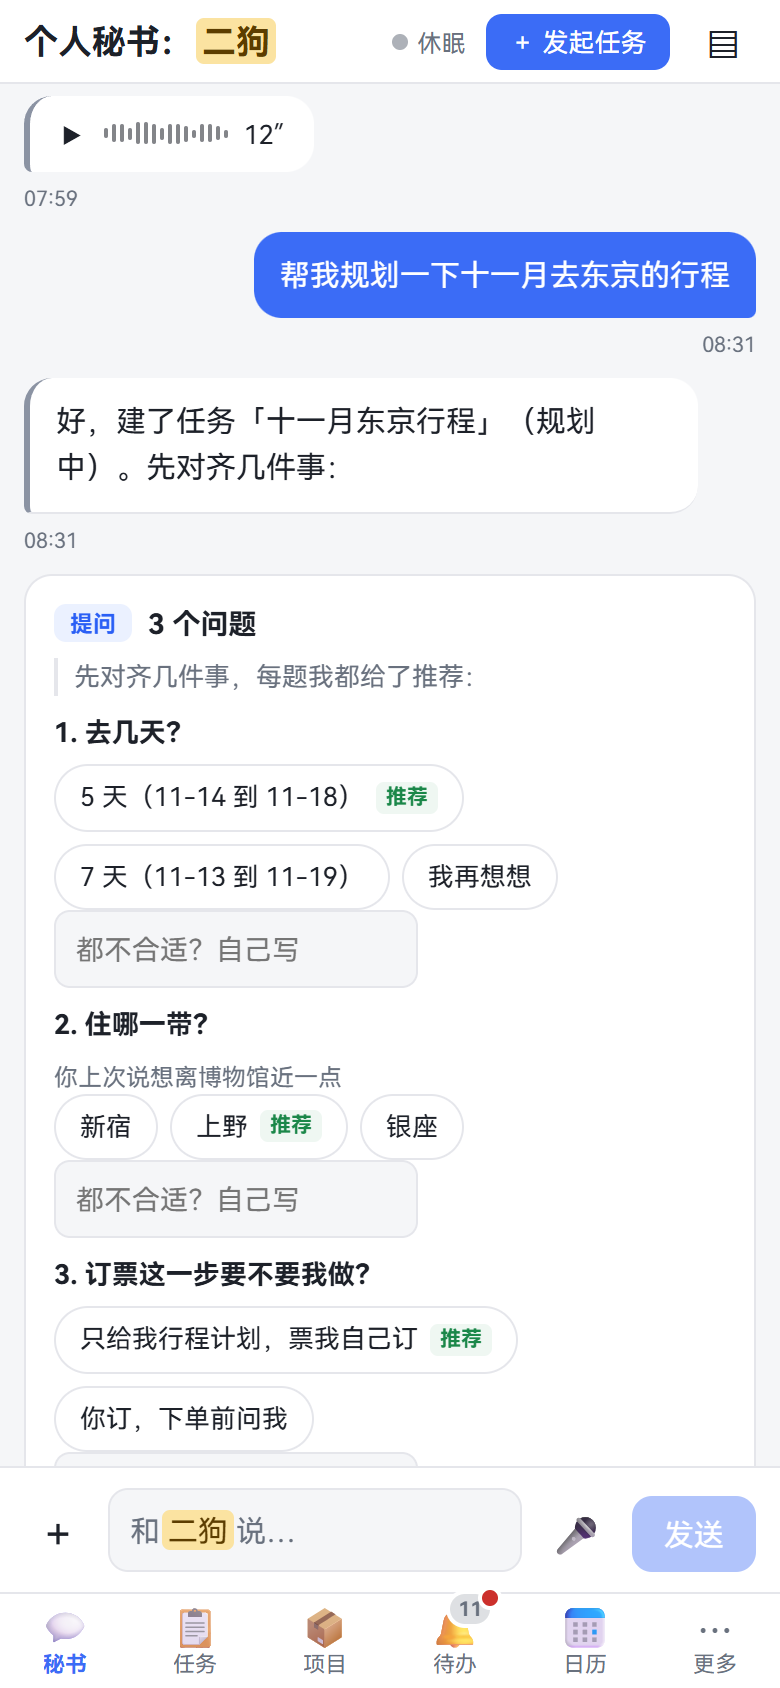
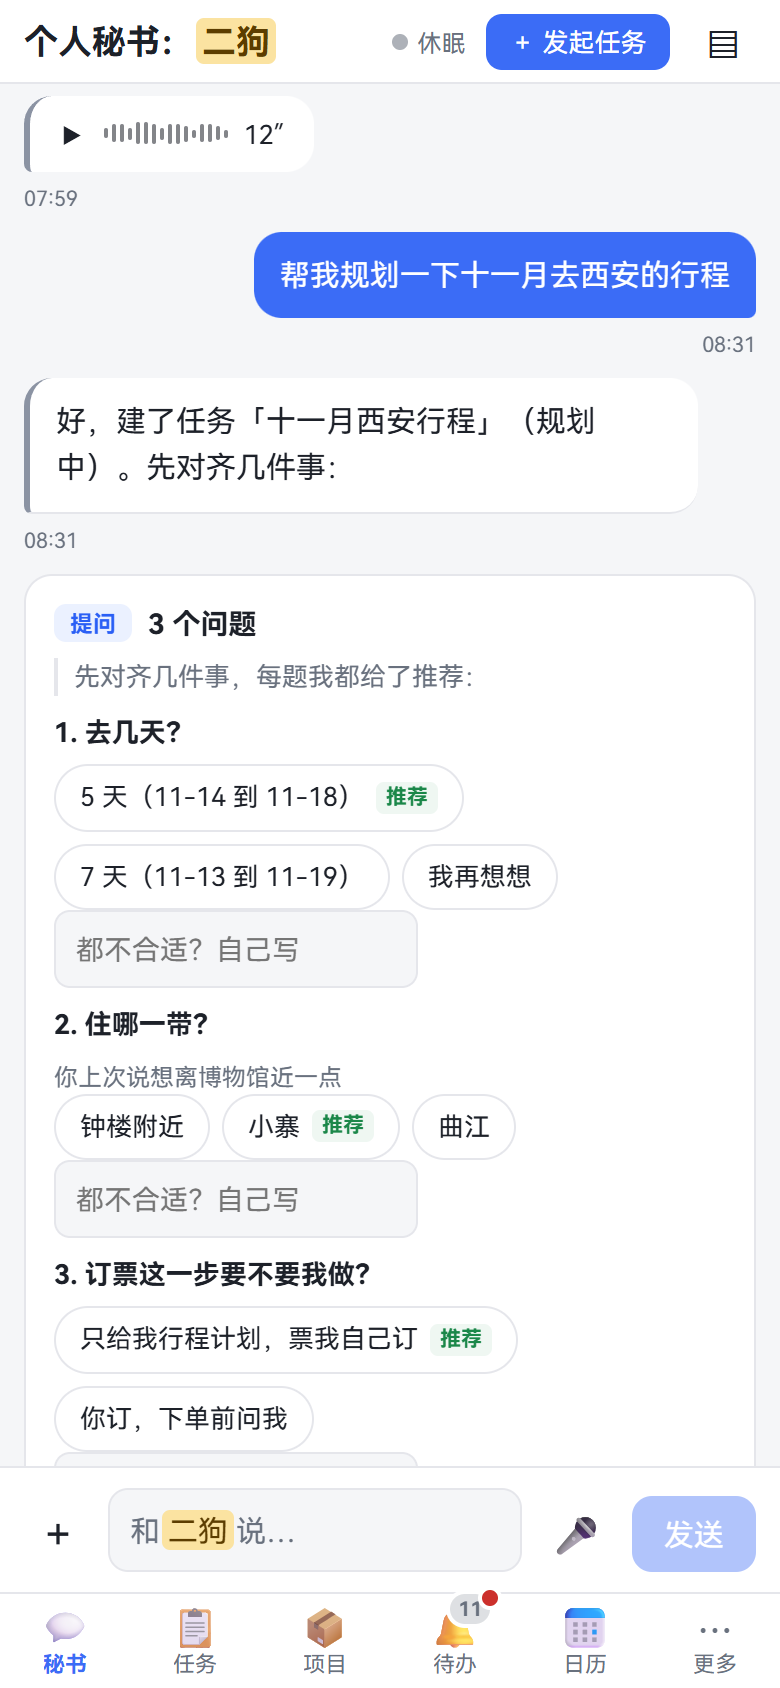
docs: 原型示例数据去掉日本相关的内容（东京行程改成西安、住哪一带改成钟楼附近 / 小寨 / 曲江、查天气改查西安；归档项目日语学习改成英语学习），README 截图重截
Claude-Session: https://claude.ai/code/session_01LuccspkYbJahV5zpQMTyxW

diff --git a/packages/web/src/prototype/fake-conversations.ts b/packages/web/src/prototype/fake-conversations.ts
@@ -382,7 +382,7 @@ export const FAKE_CARDS: Card[] = [
     intro: "先对齐几件事，每题我都给了推荐：",
     questions: [
       { id: "q1", question: "去几天？", options: ["5 天（11-14 到 11-18）", "7 天（11-13 到 11-19）", "我再想想"], recommended: "5 天（11-14 到 11-18）" },
-      { id: "q2", question: "住哪一带？", options: ["新宿", "上野", "银座"], recommended: "上野", why: "你上次说想离博物馆近一点" },
+      { id: "q2", question: "住哪一带？", options: ["钟楼附近", "小寨", "曲江"], recommended: "小寨", why: "你上次说想离博物馆近一点" },
       { id: "q3", question: "订票这一步要不要我做？", options: ["只给我行程计划，票我自己订", "你订，下单前问我"], recommended: "只给我行程计划，票我自己订" },
     ],
   } satisfies QuestionsPayload),
@@ -641,8 +641,8 @@ const SECRETARY: MessageEnvelope[] = [
   msg(S, "user", at("10-07", "07:58"), { type: "voice", voiceId: "v-fake-demo", mediaId: "sha256:fake-voice", mime: "audio/webm", durationMs: 6200, waveform: [6, 22, 48, 71, 60, 35, 18, 52, 80, 66, 30, 12, 40, 58, 26, 9] }),
   msg(S, "agent", at("10-07", "07:58"), text("好，周五下午三点的牙医改到下周一同一时间了。")),
   FAKE_AGENT_VOICE_MESSAGE,
-  msg(S, "user", at("10-07", "08:31"), text("帮我规划一下十一月去东京的行程")),
-  msg(S, "agent", at("10-07", "08:31"), text("好，建了任务「十一月东京行程」（规划中）。先对齐几件事："), cardRef("c-q-1")),
+  msg(S, "user", at("10-07", "08:31"), text("帮我规划一下十一月去西安的行程")),
+  msg(S, "agent", at("10-07", "08:31"), text("好，建了任务「十一月西安行程」（规划中）。先对齐几件事："), cardRef("c-q-1")),
   msg(
     S,
     "user",
@@ -678,15 +678,15 @@ const SECRETARY: MessageEnvelope[] = [
     ),
   ),
   // 67 号票：提醒、联网搜索、读网页（70 号票）各一次，工具调用说成人话
-  msg(S, "user", at("10-07", "10:02"), text("下周三早上提醒我交季度报告；再查查东京十一月中旬的天气")),
+  msg(S, "user", at("10-07", "10:02"), text("下周三早上提醒我交季度报告；再查查西安十一月中旬的天气")),
   msg(
     S,
     "agent",
     at("10-07", "10:03"),
     tool("create_reminder", "text=交季度报告 date=10-15 time=09:00", { result: "已建好提醒 r-7「交季度报告」：10 月 15 日（周三）09:00" }),
-    tool("web_search", "东京 11月 中旬 天气 平均气温", { result: "10 条结果" }),
-    tool("web_fetch", "https://www.data.jma.go.jp/obd/stats/etrn/view/monthly_s3.php?prec_no=44&block_no=47662", { result: "11 月平均气温 13.9℃" }),
-    text("提醒建好了：10 月 15 日（周三）09:00。东京十一月中旬白天 15–18℃，早晚 8–10℃，带件薄外套就行。"),
+    tool("web_search", "西安 11月 中旬 天气 平均气温", { result: "10 条结果" }),
+    tool("web_fetch", "https://www.weather.com.cn/weather40d/101110101.shtml", { result: "11 月平均气温 7.6℃" }),
+    text("提醒建好了：10 月 15 日（周三）09:00。西安十一月中旬白天 12–15℃，早晚 2–5℃，带件厚外套。"),
   ),
 ];
 

diff --git a/packages/web/src/prototype/fake-data.ts b/packages/web/src/prototype/fake-data.ts
@@ -85,7 +85,7 @@ export const FAKE_BOARD: BoardEntry[] = (
     { kind: "task", id: "t-nas", title: "NAS 硬盘健康巡检", status: "waiting_for_user", waitReason: "stuck", stage: { current: 1, total: 2 }, activity: "waiting_for_user", tokens: 45_000, projects: [], updatedAt: at("10-07", "06:30") },
     { kind: "task", id: "t-notes", title: "读书笔记整理成卡片", status: "waiting_for_user", waitReason: "clarification", stage: { current: 1, total: 3 }, activity: "waiting_for_user", tokens: 22_000, projects: [], updatedAt: at("10-06", "21:10") },
     // 进行中
-    { kind: "task", id: "t-tokyo", title: "十一月东京行程", status: "planning", activity: "working", activityNote: "和你对齐意图", tokens: 8_000, projects: [], updatedAt: at("10-07", "08:31") },
+    { kind: "task", id: "t-xian", title: "十一月西安行程", status: "planning", activity: "working", activityNote: "和你对齐意图", tokens: 8_000, projects: [], updatedAt: at("10-07", "08:31") },
     { kind: "task", id: "t-blog", title: "博客迁移到 Astro", status: "running", stage: { current: 3, total: 5 }, activity: "working", activityNote: "跑端到端测试", tokens: 356_000, projects: ["个人博客"], updatedAt: at("10-07", "09:10") },
     { kind: "task", id: "t-netdisk", title: "家庭网盘去重", status: "queued", activity: "queued", activityNote: "等项目「家庭网盘」", tokens: 0, projects: ["家庭网盘"], updatedAt: at("10-07", "07:40") },
     { kind: "task", id: "t-car", title: "车险比价", status: "paused", stage: { current: 1, total: 2 }, activity: "sleeping", tokens: 27_000, projects: [], updatedAt: at("10-06", "20:13") },
@@ -441,7 +441,7 @@ export const FAKE_PROJECTS: Project[] = [
   fakeProject({ id: "p-netdisk", name: "家庭网盘", goal: "家里的文件统一放一处，自动去重和备份", state: "in_use", kind: "dev", toolkit: { skills: [], mcp: [], bash: true, network: false } }),
   fakeProject({ id: "p-appliance", name: "家电档案", goal: "家里电器的保修单、说明书和维修记录收在一处", state: "preparing", charterCardId: "c-charter-1" }),
   fakeProject({ id: "p-oldsite", name: "旧作品集网站", goal: "以前的作品集，不再更新", state: "retired", kind: "dev" }),
-  fakeProject({ id: "p-jp", name: "日语学习", goal: "每天十个单词，周末复习", state: "archived", archivedFrom: "in_use", kind: "other" }),
+  fakeProject({ id: "p-english", name: "英语学习", goal: "每天十个单词，周末复习", state: "archived", archivedFrom: "in_use", kind: "other" }),
 ];
 
 /** 项目页上还没接真数据的部分（定时作业 19、工单流水线 16、工具包的查看和修改 27、范围记录 18）：只有原型的假项目有 */
